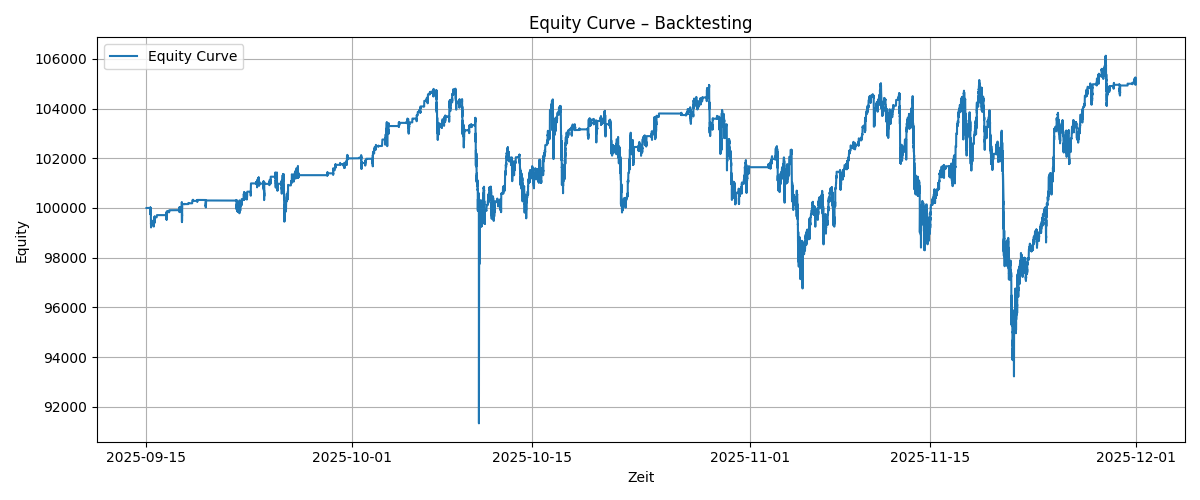
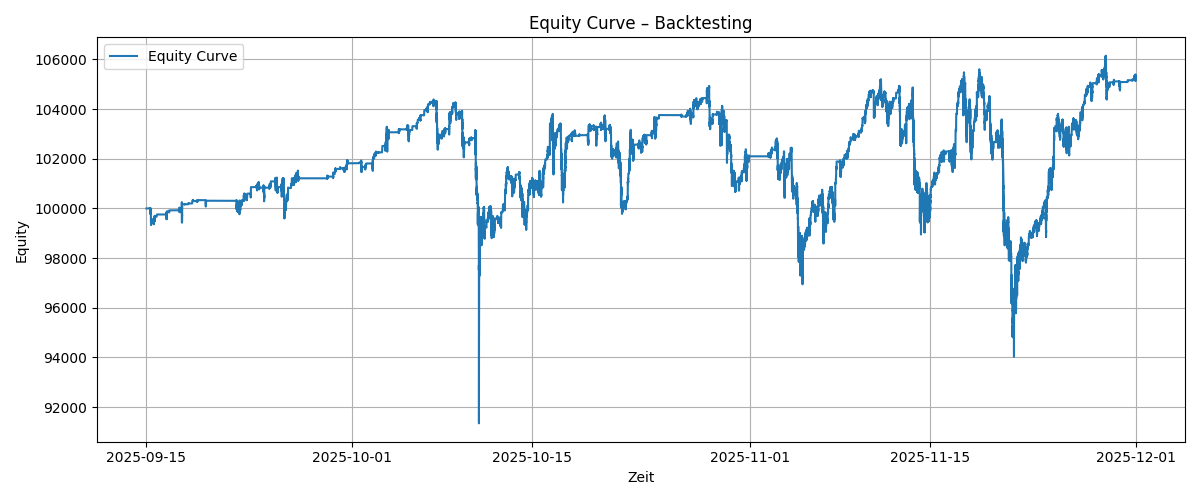
Backtesting bestes ergebnis

diff --git a/experiments/exp_1_2/scripts/09_model_deployment/backtesting.py b/experiments/exp_1_2/scripts/09_model_deployment/backtesting.py
@@ -154,12 +154,14 @@ def setBuyOrder(prob_up, row_index, account, positions, timestamp, buying_count)
 
     if prob_up >= 0.5:
         buy_pct = 0.2
+    elif prob_up >= 0.4:
+        buy_pct = 0.15
     elif prob_up >= 0.3:
         buy_pct = 0.1
     else:
         buy_pct = 0.05
 
-    if buying_count < 16:  # UP - KAUFEN
+    if buying_count < 11:  # UP - KAUFEN
         trades[timestamp] = "BUY"
         if len(positions) == 0:
             # Erste Position öffnen
